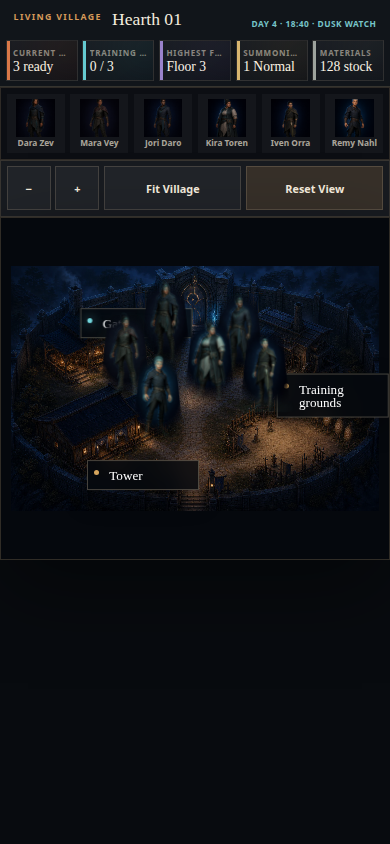
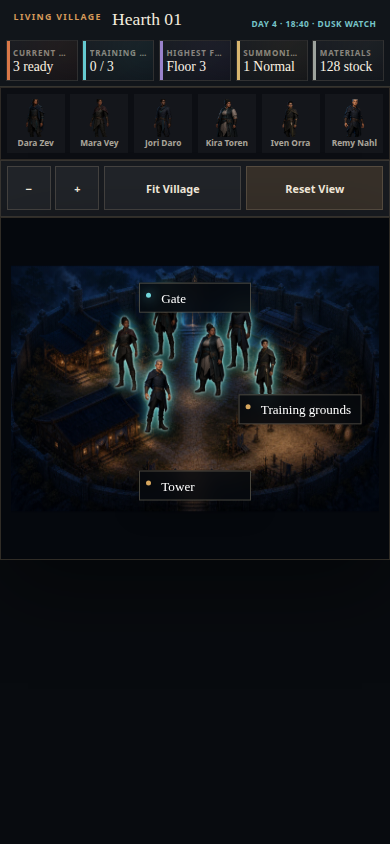
fix: use true Village cutouts and stable pan

Changed region(s): [[0.1846, 0.3081, 0.9231, 0.6161], [0.9846, 0.4313, 1.0, 0.4929], [0.9231, 0.4621, 0.9538, 0.4929]]

diff --git a/apps/web/src/routes/living-village-lab/village/village.e2e.ts b/apps/web/src/routes/living-village-lab/village/village.e2e.ts
@@ -30,17 +30,26 @@ test('unifies Village hotspots, resident inspection, orders, and camera controls
 		.toBe('rgba(0, 0, 0, 0)');
 	await expect(viewport.locator('.hero-marker[data-availability="available"]')).toHaveCount(6);
 	await expect
-		.poll(() => firstHeroMarker.evaluate((marker) => getComputedStyle(marker, '::before').opacity))
-		.toBe('0.76');
+		.poll(() => firstHeroMarker.locator('img').evaluate((image) => getComputedStyle(image).filter))
+		.not.toBe('none');
+	await expect
+		.poll(() =>
+			firstHeroMarker.locator('img').evaluate((image: HTMLImageElement) => {
+				const canvas = document.createElement('canvas');
+				canvas.width = image.naturalWidth;
+				canvas.height = image.naturalHeight;
+				canvas.getContext('2d')!.drawImage(image, 0, 0);
+				return canvas.getContext('2d')!.getImageData(0, 0, 1, 1).data[3];
+			})
+		)
+		.toBe(0);
 	await expect(viewport.locator('.facility-hotspot')).toHaveCount(3);
 	const gateHotspot = page.getByRole('link', { name: 'Enter Summoning Gate' });
 	await expect(gateHotspot).toHaveAttribute('href', '/forge');
+	await expect(gateHotspot).toHaveAttribute('draggable', 'false');
 	await expect
 		.poll(() => gateHotspot.evaluate((element) => getComputedStyle(element).borderTopColor))
 		.toBe('rgba(0, 0, 0, 0)');
-	const gateBounds = await gateHotspot.boundingBox();
-	const gateLabelBounds = await gateHotspot.locator('span').boundingBox();
-	expect(gateLabelBounds!.x + gateLabelBounds!.width).toBeLessThan(gateBounds!.x + 8);
 	await gateHotspot.hover();
 	await expect
 		.poll(() => gateHotspot.evaluate((element) => getComputedStyle(element).borderTopColor))
@@ -52,8 +61,21 @@ test('unifies Village hotspots, resident inspection, orders, and camera controls
 				.evaluate((image: HTMLImageElement) => `${image.naturalWidth}x${image.naturalHeight}`)
 		)
 		.toBe('1536x1024');
+	await expect(viewport.locator('img.environment')).toHaveAttribute('draggable', 'false');
 
 	const courtHotspot = page.getByRole('button', { name: 'Inspect Training Grounds' });
+	const towerHotspot = page.getByRole('button', { name: 'Inspect Tower Threshold' });
+	for (const hotspot of [gateHotspot, courtHotspot, towerHotspot]) {
+		const hotspotBounds = await hotspot.boundingBox();
+		const labelBounds = await hotspot.locator('span').boundingBox();
+		expect(
+			Math.abs(
+				labelBounds!.x + labelBounds!.width / 2 - (hotspotBounds!.x + hotspotBounds!.width / 2)
+			)
+		).toBeLessThan(2);
+		expect(labelBounds!.y).toBeGreaterThanOrEqual(hotspotBounds!.y);
+		expect(labelBounds!.y - hotspotBounds!.y).toBeLessThan(18);
+	}
 	const courtBounds = await courtHotspot.boundingBox();
 	await page.mouse.move(
 		courtBounds!.x + courtBounds!.width * 0.5,
@@ -93,8 +115,8 @@ test('unifies Village hotspots, resident inspection, orders, and camera controls
 	await expect(courtHotspot).toHaveAttribute('aria-pressed', 'true');
 	await expect(firstHeroMarker).toHaveAttribute('data-availability', 'busy');
 	await expect
-		.poll(() => firstHeroMarker.evaluate((marker) => getComputedStyle(marker, '::before').opacity))
-		.toBe('0');
+		.poll(() => firstHeroMarker.locator('img').evaluate((image) => getComputedStyle(image).filter))
+		.toBe('none');
 
 	await page
 		.getByLabel('Find a resident')
@@ -117,14 +139,24 @@ test('unifies Village hotspots, resident inspection, orders, and camera controls
 	}
 	await expect(viewport).toHaveAttribute('data-zoom-percent', '300');
 
-	const beforeDrag = await viewport.getAttribute('data-offset-x');
+	const beforeDragX = await viewport.getAttribute('data-offset-x');
+	const beforeDragY = await viewport.getAttribute('data-offset-y');
 	const box = await viewport.boundingBox();
 	expect(box).not.toBeNull();
 	await page.mouse.move(box!.x + box!.width * 0.45, box!.y + box!.height * 0.45);
 	await page.mouse.down();
-	await page.mouse.move(box!.x + box!.width * 0.58, box!.y + box!.height * 0.45, { steps: 4 });
+	await page.mouse.move(box!.x + box!.width * 0.58, box!.y + box!.height * 0.56, { steps: 6 });
 	await page.mouse.up();
-	await expect.poll(() => viewport.getAttribute('data-offset-x')).not.toBe(beforeDrag);
+	await expect.poll(() => viewport.getAttribute('data-offset-x')).not.toBe(beforeDragX);
+	await expect.poll(() => viewport.getAttribute('data-offset-y')).not.toBe(beforeDragY);
+	const afterFirstDragX = await viewport.getAttribute('data-offset-x');
+	const afterFirstDragY = await viewport.getAttribute('data-offset-y');
+	await page.mouse.move(box!.x + box!.width * 0.62, box!.y + box!.height * 0.58);
+	await page.mouse.down();
+	await page.mouse.move(box!.x + box!.width * 0.52, box!.y + box!.height * 0.49, { steps: 6 });
+	await page.mouse.up();
+	await expect.poll(() => viewport.getAttribute('data-offset-x')).not.toBe(afterFirstDragX);
+	await expect.poll(() => viewport.getAttribute('data-offset-y')).not.toBe(afterFirstDragY);
 
 	await page.getByRole('button', { name: 'Fit Village' }).click();
 	await expect(viewport).toHaveAttribute('data-zoom-percent', '100');

diff --git a/apps/web/src/lib/components/living-village/village/VillageViewport.svelte b/apps/web/src/lib/components/living-village/village/VillageViewport.svelte
@@ -231,6 +231,8 @@
 
 	function handlePointerDown(event: PointerEvent): void {
 		if ((event.target as HTMLElement).closest('[data-no-pan]')) return;
+		const interactiveTarget = (event.target as HTMLElement).closest('button, a');
+		if (!interactiveTarget) viewport.setPointerCapture(event.pointerId);
 		activePointers.set(event.pointerId, { x: event.clientX, y: event.clientY });
 		if (activePointers.size === 1) {
 			lastPointer = { x: event.clientX, y: event.clientY };
@@ -358,7 +360,7 @@
 							aria-pressed={selectedHeroId === hero.id}
 							onclick={() => selectHero(hero, true)}
 						>
-							<img src={hero.portrait} alt="" width="1024" height="1536" />
+							<img src={hero.portrait} alt="" width="1024" height="1536" draggable="false" />
 							<span>{hero.name}</span>
 						</button>
 					{/each}
@@ -403,6 +405,7 @@
 					alt="Hearth Village with the Summoning Gate north, Training Grounds southeast, and Tower Threshold south"
 					width={environment.width}
 					height={environment.height}
+					draggable="false"
 					fetchpriority="high"
 					decoding="async"
 				/>
@@ -417,6 +420,7 @@
 							style={hotspotStyle(facility)}
 							aria-label={`Enter ${facility.name}`}
 							href={resolve(facility.href)}
+							draggable="false"
 							onclick={() => selectFacility(facility)}
 						>
 							<span><i></i><strong>{facility.shortName}</strong></span>
@@ -450,12 +454,11 @@
 							class:selected={selectedHeroId === hero.id}
 							class:available={runtime[hero.id].order === null}
 							data-availability={runtime[hero.id].order === null ? 'available' : 'busy'}
-							style={`--hero-portrait:url(${hero.portrait})`}
 							aria-pressed={selectedHeroId === hero.id}
 							aria-label={`Inspect ${hero.name}, level ${hero.level}, ${runtime[hero.id].activity}`}
 							onclick={() => selectHero(hero)}
 						>
-							<img src={hero.portrait} alt="" width="1024" height="1536" />
+							<img src={hero.portrait} alt="" width="1024" height="1536" draggable="false" />
 						</button>
 					</div>
 				{/each}
@@ -478,6 +481,7 @@
 							alt={selectedHero.portraitAlt}
 							width="1024"
 							height="1536"
+							draggable="false"
 						/>
 						<div>
 							<span>Level {selectedHero.level}</span>
@@ -759,34 +763,19 @@
 
 	.facility-hotspot > span {
 		position: absolute;
-		left: 0;
-		top: 0;
+		z-index: 30;
+		left: 50%;
+		top: 0.75rem;
 		display: grid;
 		min-width: 7rem;
 		padding: 0.48rem 0.58rem;
 		border: 1px solid rgba(239, 221, 187, 0.28);
 		background: rgba(5, 9, 13, 0.82);
 		box-shadow: 0 0.6rem 1.5rem rgba(0, 0, 0, 0.34);
-		transform: translate(-100%, -50%) scale(calc(1 / var(--scene-scale)));
-		transform-origin: center;
+		transform: translateX(-50%) scale(calc(1 / var(--scene-scale)));
+		transform-origin: center top;
 		backdrop-filter: blur(8px);
 		pointer-events: none;
-	}
-
-	.facility-hotspot[data-facility='gate'] > span {
-		left: -4%;
-		top: 72%;
-	}
-
-	.facility-hotspot[data-facility='court'] > span {
-		left: 97%;
-		top: 12%;
-		transform: translate(-100%, -100%) scale(calc(1 / var(--scene-scale)));
-	}
-
-	.facility-hotspot[data-facility='tower'] > span {
-		left: 4%;
-		top: 18%;
 	}
 
 	.facility-hotspot i {
@@ -854,26 +843,6 @@
 		transform: translateX(-50%);
 	}
 
-	.hero-marker::before {
-		position: absolute;
-		z-index: 0;
-		inset: -0.16rem;
-		background: rgba(151, 255, 246, 0.96);
-		content: '';
-		filter: blur(0.16rem) drop-shadow(0 0 0.34rem rgba(94, 229, 222, 0.82));
-		mask-image: var(--hero-portrait);
-		mask-mode: luminance;
-		mask-position: 50% 20%;
-		mask-repeat: no-repeat;
-		mask-size: cover;
-		opacity: 0;
-		transition: opacity 140ms ease;
-	}
-
-	.hero-marker.available::before {
-		opacity: 0.76;
-	}
-
 	.hero-marker:hover,
 	.hero-marker.selected {
 		filter: drop-shadow(0 0 0.25rem rgba(210, 246, 244, 0.9))
@@ -885,12 +854,14 @@
 		z-index: 1;
 		width: 100%;
 		height: 100%;
-		object-fit: cover;
-		object-position: 50% 20%;
-		clip-path: polygon(18% 0, 82% 0, 96% 92%, 72% 100%, 28% 100%, 4% 92%);
-		mask-image: radial-gradient(ellipse 58% 54% at 50% 48%, black 68%, transparent 100%);
-		mix-blend-mode: lighten;
+		object-fit: contain;
+		object-position: center bottom;
 		pointer-events: none;
+	}
+
+	.hero-marker.available img {
+		filter: drop-shadow(0 0 0.08rem rgba(222, 255, 251, 0.98))
+			drop-shadow(0 0 0.34rem rgba(94, 229, 222, 0.86));
 	}
 
 	.hero-anchor.moving .hero-marker {

diff --git a/apps/web/src/routes/living-village-lab/village/fixtures.ts b/apps/web/src/routes/living-village-lab/village/fixtures.ts
@@ -1,9 +1,9 @@
-import daraPortrait from '../../../../../../assets/heroes/visuals/owner-playtest-v1/dara-zev-anchor-v1.png';
-import maraPortrait from '../../../../../../assets/heroes/ember-01-anchor-v1.png';
-import joriPortrait from '../../../../../../assets/heroes/visuals/owner-playtest-v1/jori-daro-anchor-v1.png';
-import kiraPortrait from '../../../../../../assets/heroes/visuals/forge-v2/pilot/kira-toren-anchor-v1.png';
-import ivenPortrait from '../../../../../../assets/heroes/visuals/forge-v2/pilot/iven-orra-anchor-v1.png';
-import remyPortrait from '../../../../../../assets/heroes/visuals/hearth-02-anchor-v1.png';
+import daraPortrait from './cutouts/dara-zev.png';
+import ivenPortrait from './cutouts/iven-orra.png';
+import joriPortrait from './cutouts/jori-daro.png';
+import kiraPortrait from './cutouts/kira-toren.png';
+import maraPortrait from './cutouts/mara-vey.png';
+import remyPortrait from './cutouts/remy-nahl.png';
 
 import type {
 	VillageFacility,

diff --git a/docs/evidence/living-village-village-validation.md b/docs/evidence/living-village-village-validation.md
@@ -25,12 +25,14 @@ compact find/focus ribbon. No separate roster route was created.
   owner review.
 - The optional Residents finder and camera controls share one compact command toolbar on desktop
   and collapse into two shallow rows on phone.
-- Existing Hearth environment with named Gate, Court, and Tower hotspots.
+- Existing Hearth environment with named Gate, Court, and Tower hotspots. Each label is centered
+  just inside the top of its clickable region.
 - Bounded 100–300% camera with pointer drag from the map, heroes, or facility regions; wheel zoom;
   two-pointer pinch; keyboard zoom/pan; visible zoom controls; Fit; and Reset. A small drag allowance
   remains available at fitted zoom so the camera never feels inert.
-- Six fixed in-world hero figures using their existing identity anchors, enlarged without card
-  frames, dark UI backplates, or redundant world-space name labels.
+- Six fixed in-world hero figures using alpha-background derivatives of their existing approved
+  identity anchors, enlarged without card frames, backplates, blend tricks, or redundant
+  world-space name labels.
 - Available heroes carry a restrained light silhouette; assigning Court training or a Tower hunt
   removes that light immediately so the world itself communicates who is busy.
 - The Summoning Gate is a real link to the repository's existing `/forge` Summoning Forge rather
@@ -62,13 +64,14 @@ pnpm --filter @summonlab/web exec playwright test \
 ```
 
 Result: **2 passed**. The test proves direct static loading, no `/api/` requests, the natural
-1536×1024 Hearth asset, three quiet hotspot labels, six frameless in-world figures, absence of the
-destination panel/resident-count/camera-help annotations, in-world hero selection, ribbon focus,
-anchored popover, details drawer, availability light removal after Court assignment, Court training,
-species hunt, pointer pan beginning inside a facility region at fitted zoom, click suppression after
-a drag, wheel zoom, visible controls, 100–300% bounds, Fit/Reset semantics, keyboard operation,
-reduced motion, phone target sizes, the real Gate-to-Forge navigation, and no horizontal overflow at
-phone or 200%-equivalent reflow widths.
+1536×1024 Hearth asset, three top-centered hotspot labels, six true-alpha in-world figures, absence
+of the destination panel/resident-count/camera-help annotations, in-world hero selection, ribbon
+focus, anchored popover, details drawer, availability light removal after Court assignment, Court
+training, species hunt, pointer pan beginning inside a facility region at fitted zoom, repeated
+two-axis pan at maximum zoom, disabled native image/link dragging, click suppression after a drag,
+wheel zoom, visible controls, 100–300% bounds, Fit/Reset semantics, keyboard operation, reduced
+motion, phone target sizes, the real Gate-to-Forge navigation, and no horizontal overflow at phone
+or 200%-equivalent reflow widths.
 
 ## Required gates
 
@@ -107,26 +110,34 @@ Both captures were visually inspected after the final focused test.
 The 2026-08-29 visual review rejected the original page-first hierarchy and persistent facility
 frames. The accepted revision keeps the Village at the top, compresses status into an information
 toolbar, makes facility geometry invisible at rest, illuminates the hit region only on hover or
-keyboard focus, renames the southeast destination to **Training Grounds**, and moves all three
-facility labels to quiet edges outside their focal artwork. The focused test now guards the
-map-first vertical position, transparent resting hitbox, hover illumination, and Gate label position.
+keyboard focus, and renames the southeast destination to **Training Grounds**. A later review moved
+all three facility labels to the centered top-inside position of their regions. The focused test now
+guards the map-first vertical position, transparent resting hitbox, hover illumination, and all
+three label positions.
 
 The subsequent interaction review rejected card-shaped resident markers, unreliable panning over
 interactive regions, and explanatory overlays that repeated obvious information. The accepted
-revision presents larger blended hero figures with no marker frame or name plate, delays pointer
-capture until a real drag begins, preserves click behavior under the same targets, permits modest
-pan at fitted zoom, and removes facility detail panels, status subtitles, resident-count keys,
-visible camera instructions, and prototype footer notes.
+revision presents larger hero figures with no marker frame or name plate, delays pointer capture
+until a real drag begins, preserves click behavior under the same targets, permits modest pan at
+fitted zoom, and removes facility detail panels, status subtitles, resident-count keys, visible
+camera instructions, and prototype footer notes.
 
 The following owner review accepted Residents as an optional toolbar concern, requested visible
 availability on the in-world bodies, and required the Gate to lead somewhere useful. The revision
 formally groups Residents and camera actions as the Village toolbar, applies a light silhouette only
 while `order === null`, and binds the Gate region to the existing `/forge` Summoning Forge.
 
+The latest review rejected the remaining opaque portrait pixels, off-edge labels, and native-drag
+interference. Repository inspection confirmed every existing anchor, continuity sheet, and runtime
+derivative for these identities was opaque. The route now uses provenance-documented alpha
+derivatives of the exact approved anchors, removes the CSS blend/mask workaround, centers every
+label inside the region's top edge, disables browser image/link dragging, and captures bare-map
+pointer gestures immediately.
+
 ## Useful review actions
 
 1. Select Jori directly in the courtyard, then use the ribbon to find Remy. This decides whether
-   the blended figure treatment feels like residents standing in the world on desktop and phone.
+   the true-alpha figure treatment feels like residents standing in the world on desktop and phone.
 2. Send Dara to Court training, then send Mara to hunt a Stoneback boar. This decides whether the
    availability light disappearing, quick-action density, and simple destination transition
    communicate command intent without pretending polished activity animation exists.
@@ -139,9 +150,9 @@ while `order === null`, and binds the Gate region to the existing `/forge` Summo
 - Movement is intentionally a route-local transition placeholder. Polished walking, arrival, and
   training animation remain with the activity owner.
 - Orders are deterministic local fixture state and do not persist or call an API.
-- Kira, Iven, and Remy do not yet have shared optimized roster exports in the runtime visual
-  catalog, so this isolated route imports their existing full identity anchors. A shared integration
-  should export approved compact derivatives rather than keep this prototype binding.
+- No shared transparent exports exist for the fixed six. This route owns documented alpha
+  derivatives of their exact approved identity anchors; a shared integration should promote compact
+  approved cutouts rather than retain route-local copies.
 - The bottom-center egress is treated as the Tower Threshold pending final environment-owner
   confirmation.
 - `/forge` is an existing development Summoning Forge rather than a campaign-state summon route;

diff --git a/apps/web/src/routes/living-village-lab/village/cutouts/README.md b/apps/web/src/routes/living-village-lab/village/cutouts/README.md
@@ -1,0 +1,18 @@
+# Route-local Village cutouts
+
+These six PNGs are alpha-background derivatives of the approved identity anchors used by the
+Living Village prototype. No face, clothing, pose, or painted character content was regenerated.
+Background isolation used `rembg`'s `u2net_human_seg` model with alpha matting and edge
+decontamination.
+
+| Cutout | Approved source |
+| --- | --- |
+| `dara-zev.png` | `assets/heroes/visuals/owner-playtest-v1/dara-zev-anchor-v1.png` |
+| `mara-vey.png` | `assets/heroes/ember-01-anchor-v1.png` |
+| `jori-daro.png` | `assets/heroes/visuals/owner-playtest-v1/jori-daro-anchor-v1.png` |
+| `kira-toren.png` | `assets/heroes/visuals/forge-v2/pilot/kira-toren-anchor-v1.png` |
+| `iven-orra.png` | `assets/heroes/visuals/forge-v2/pilot/iven-orra-anchor-v1.png` |
+| `remy-nahl.png` | `assets/heroes/visuals/hearth-02-anchor-v1.png` |
+
+The repository's existing source and runtime variants are all opaque RGB images; these derivatives
+remain route-local until an approved shared transparent export exists.
